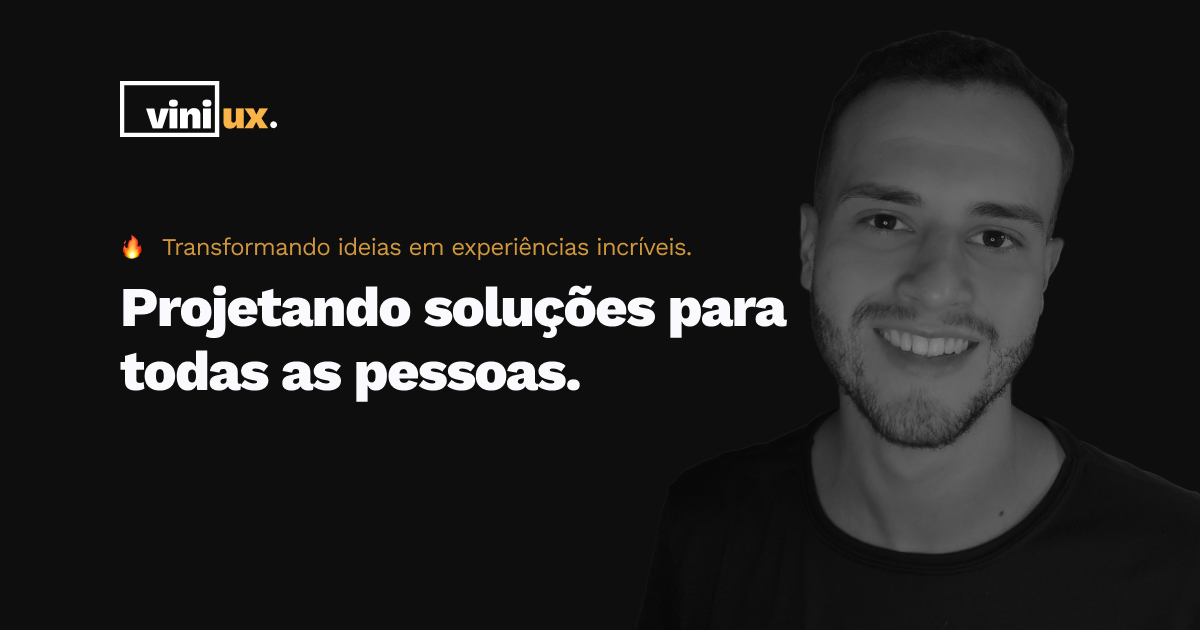
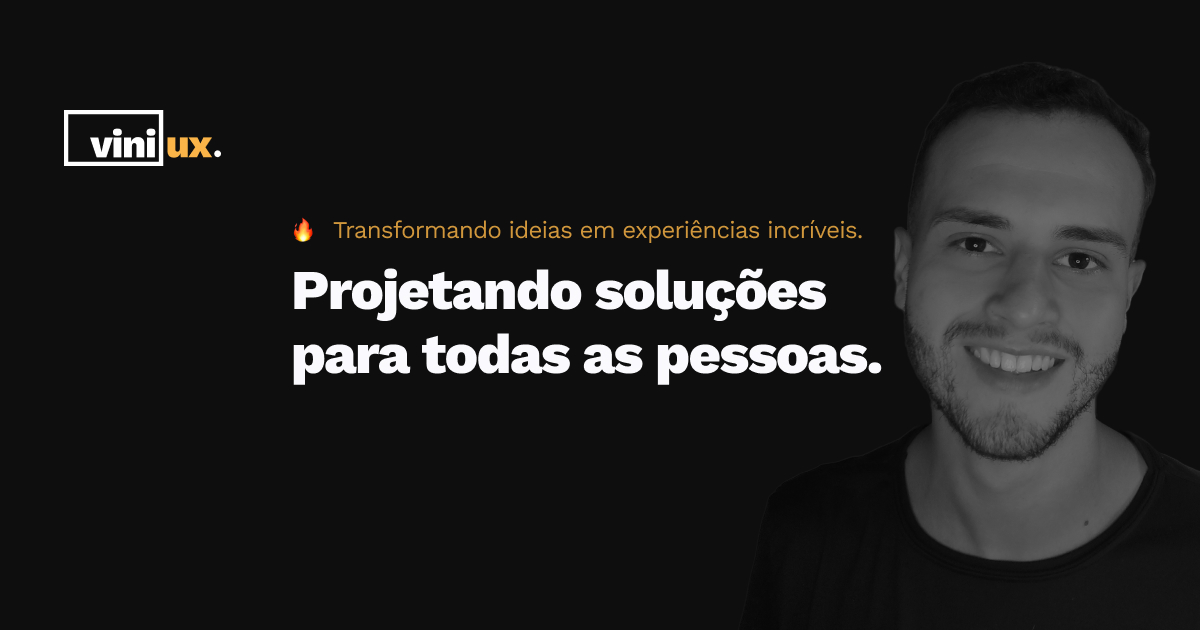
update image share 21:49

Changed region(s): [[0.0925, 0.1206, 0.9558, 0.9048], [0.0308, 0.1206, 0.2467, 0.2714], [0.0925, 0.3619, 0.1233, 0.4222]]

diff --git a/projetos/index.html b/projetos/index.html
@@ -7,14 +7,14 @@
     <meta http-equiv="pragma" content="no-cache">
     <link rel="icon" type="image/svg" href="../img/favicon.svg">
     <title>Portfólio de UX Design - Vinicius Santos</title>
-    <meta name="description" content="Explore os projetos em que trabalhei como UX Designer, demonstrando minha expertise em criar soluções impactantes. Navegue por uma coleção inspiradora de projetos inovadores, destacando minha habilidade em transformar ideias em experiências incríveis.">
+    <meta name="description" content="Explore projetos de UX e UI Design, demonstrando a expertise de Vinicius em criar soluções impactantes. Navegue por uma coleção inspiradora de projetos inovadores, destacando habilidades em transformar ideias em experiências incríveis.">
     <meta name="viewport" content="width=device-width, initial-scale=1.0">
     <meta property="og:locale" content="pt_BR">
     <meta property="og:type" content="website">
     <link rel="stylesheet" href="../css/style.css" type="text/css" media="all">
 
     <meta property="og:site_name" content="Portfólio de UX Design ─ Vinicius Santos">
-    <meta property="og:image" content="../img/viniux-share.png">
+    <meta property="og:image" content="https://viniux.com/img/viniux-share.jpg">
     <meta property="og:image:type" content="image/jpeg">
     <meta property="og:image:width" content="1200">
     <meta property="og:image:height" content="630">

diff --git a/index.html b/index.html
@@ -6,14 +6,14 @@
     <meta http-equiv="cache-control" content="no-cache">
     <meta http-equiv="pragma" content="no-cache">
     <link rel="icon" type="image/svg" href="img/favicon.svg">
-    <title>Vinicius Santos ─ UX/UI Design</title>
+    <title>Vinicius Santos: UX/UI Design ─ Projetando soluções para todas as pessoas</title>
     <meta name="description" content="Vinicius Santos é um UX Design apaixonado por transformar ideias em experiências incríveis. Conheça o portfólio de UX Design e conheça soluções inovadoras para todos os usuários. Explore os projetos e veja como sua expertise em UX Design pode fazer a diferença para o seu negócio.">
     <meta name="viewport" content="width=device-width, initial-scale=1.0">
     <meta property="og:locale" content="pt_BR">
     <meta property="og:type" content="website">
     <link rel="stylesheet" href="css/style.css" type="text/css" media="all">
 
-    <meta property="og:site_name" content="Vinicius Santos: UX Design ─ Projetando soluções para todas as pessoas">
+    <meta property="og:site_name" content="Vinicius Santos: UX/UI Design ─ Projetando soluções para todas as pessoas">
     <meta property="og:image" content="https://viniux.com/img/viniux-share.jpg">
     <meta property="og:image:type" content="image/jpeg">
     <meta property="og:image:width" content="1200">
